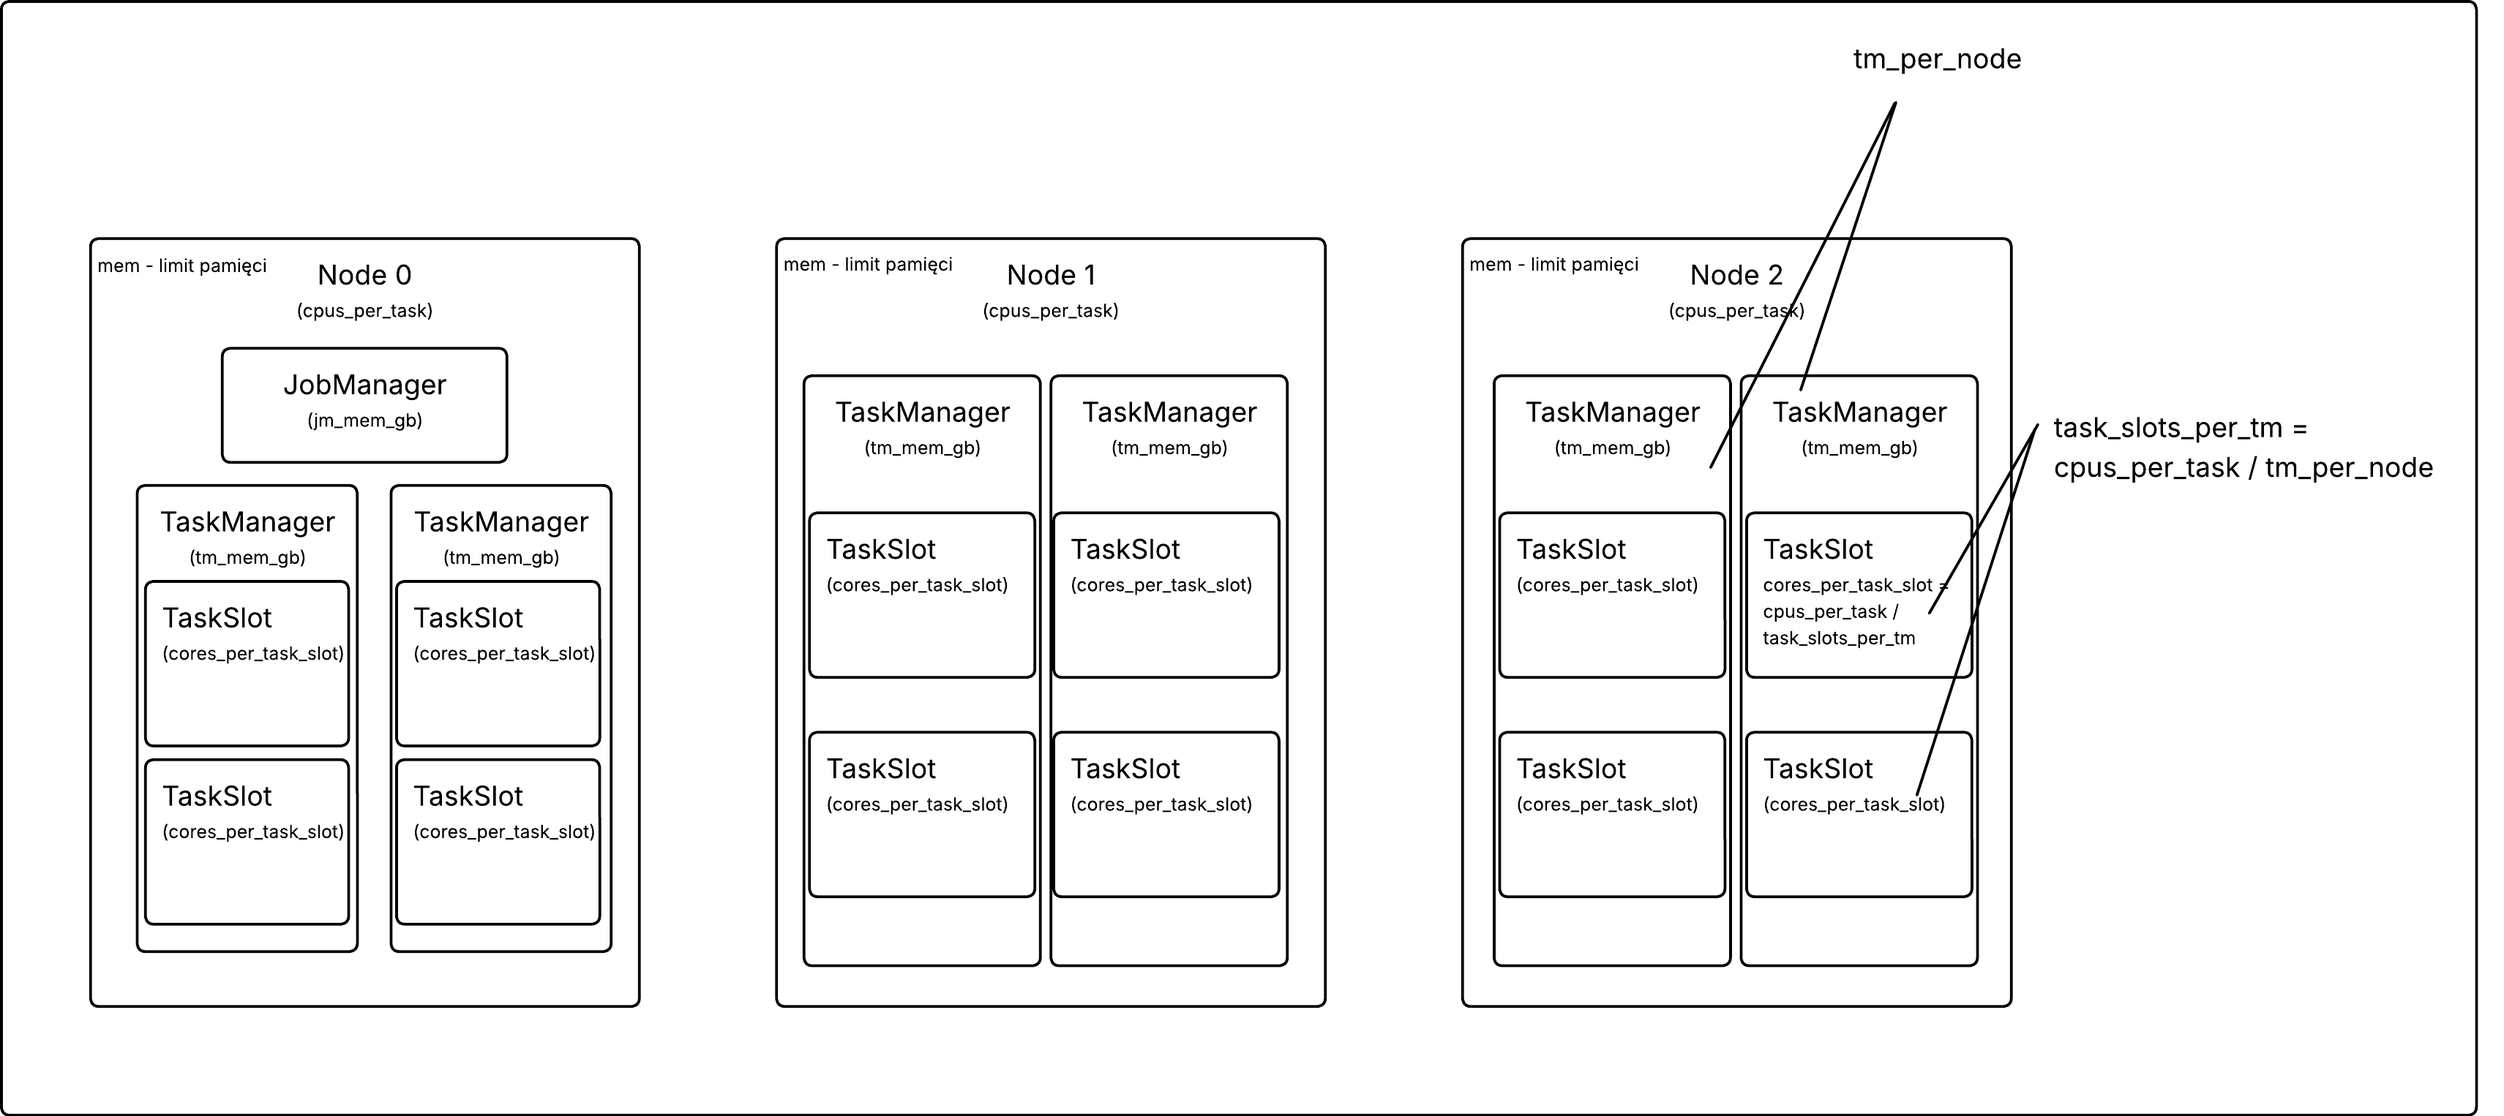
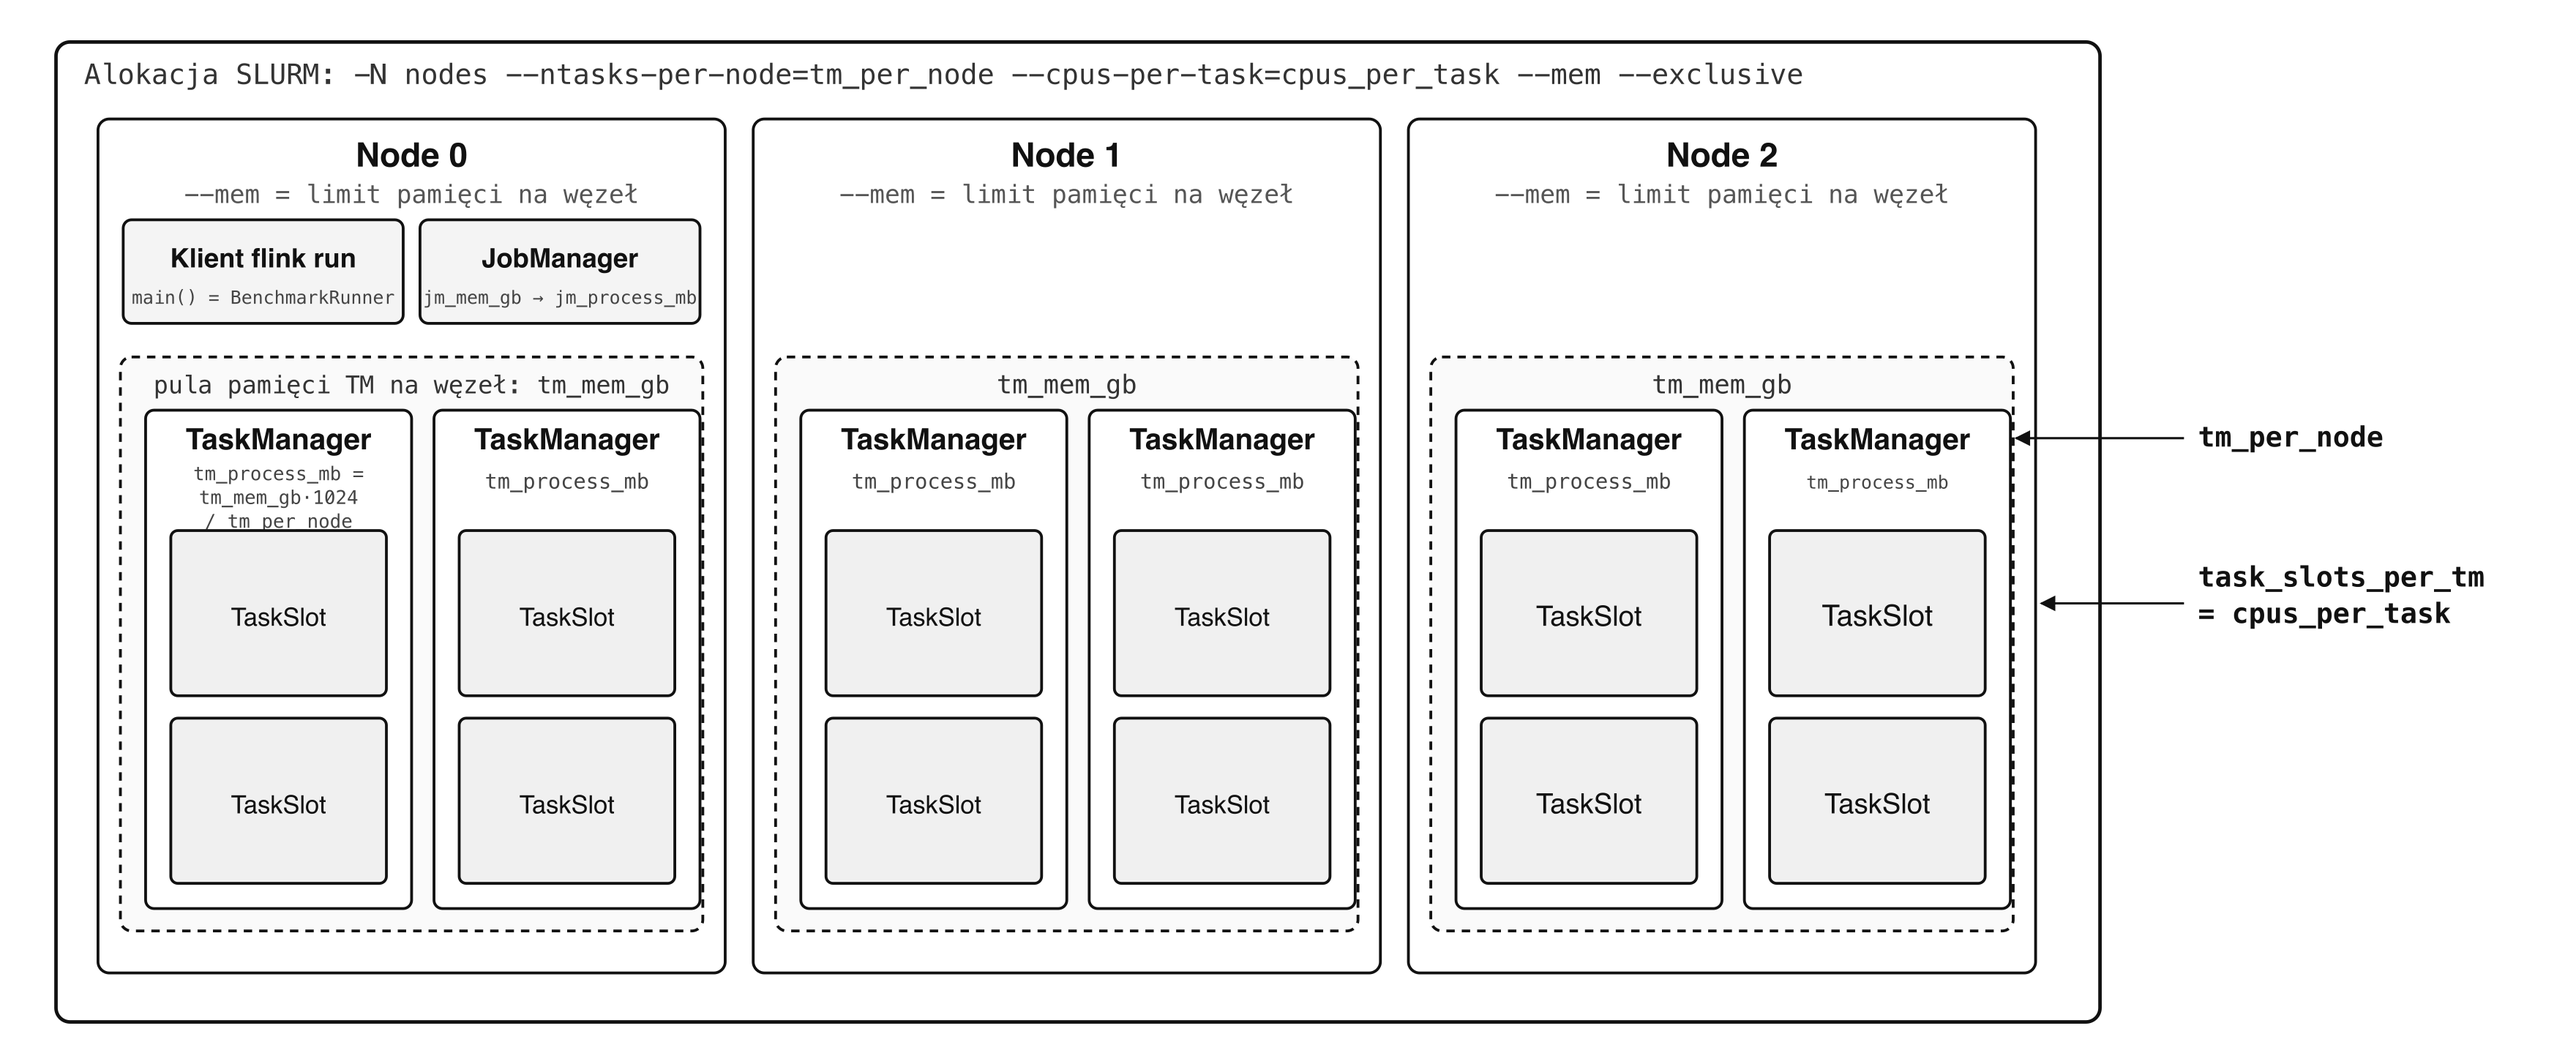
update charts in media dir + README descriptions

diff --git a/README.md b/README.md
@@ -163,8 +163,7 @@ keeps runs isolated and reproducible.
   <img src="media/flink_standalone_ares_cluster.png" alt="Flink standalone session cluster on Ares" width="80%"><br>
   <em>Flink standalone cluster on a SLURM allocation (Ares), shown from the
   <strong>physical-node</strong> perspective: JobManager daemon + one TaskManager per
-  node, with a separate <code>flink run</code> client as the driver (Session Mode,
-  current as of 5.09.2026 — see below).</em>
+  node, with a separate <code>flink run</code> client as the driver (Session Mode).</em>
 </p>
 
 #### Spark bootstrap (inside each `<runId>.sbatch`)
